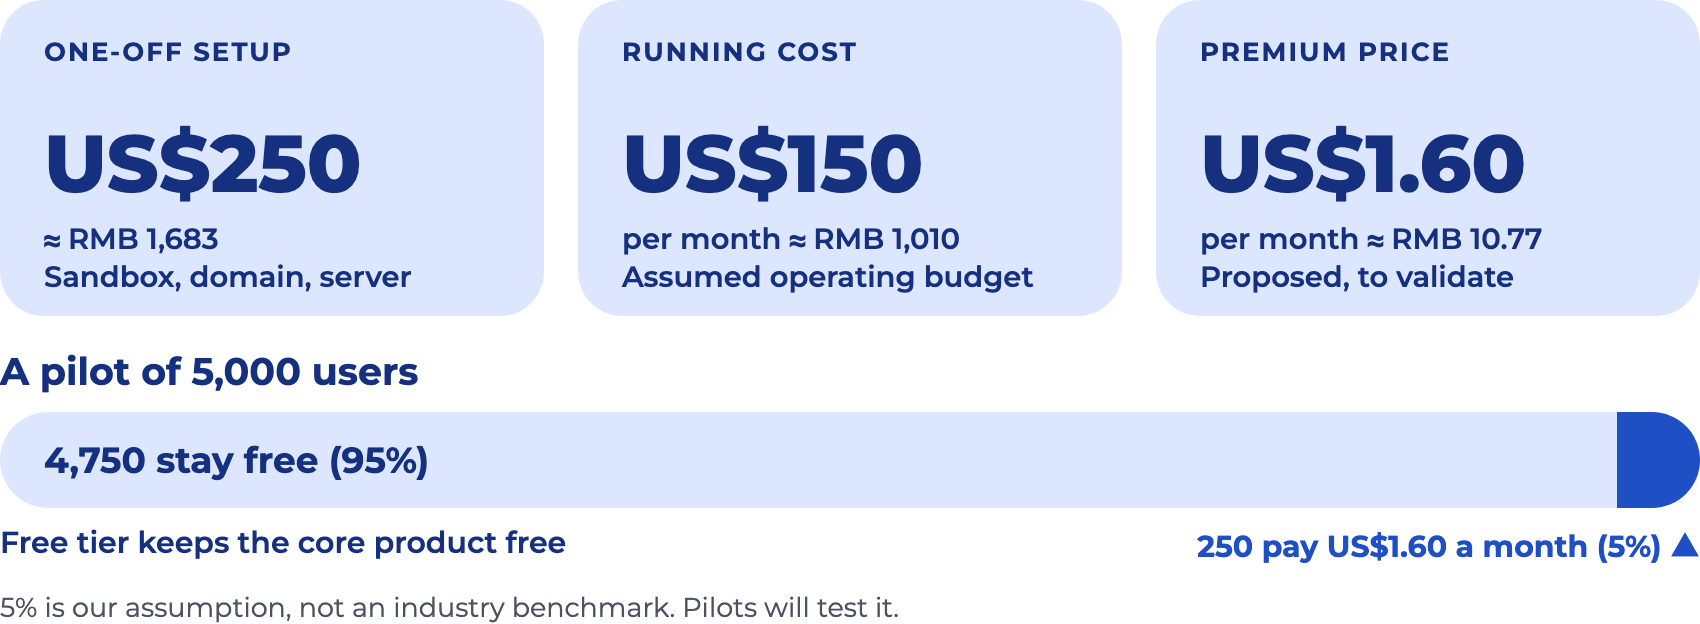
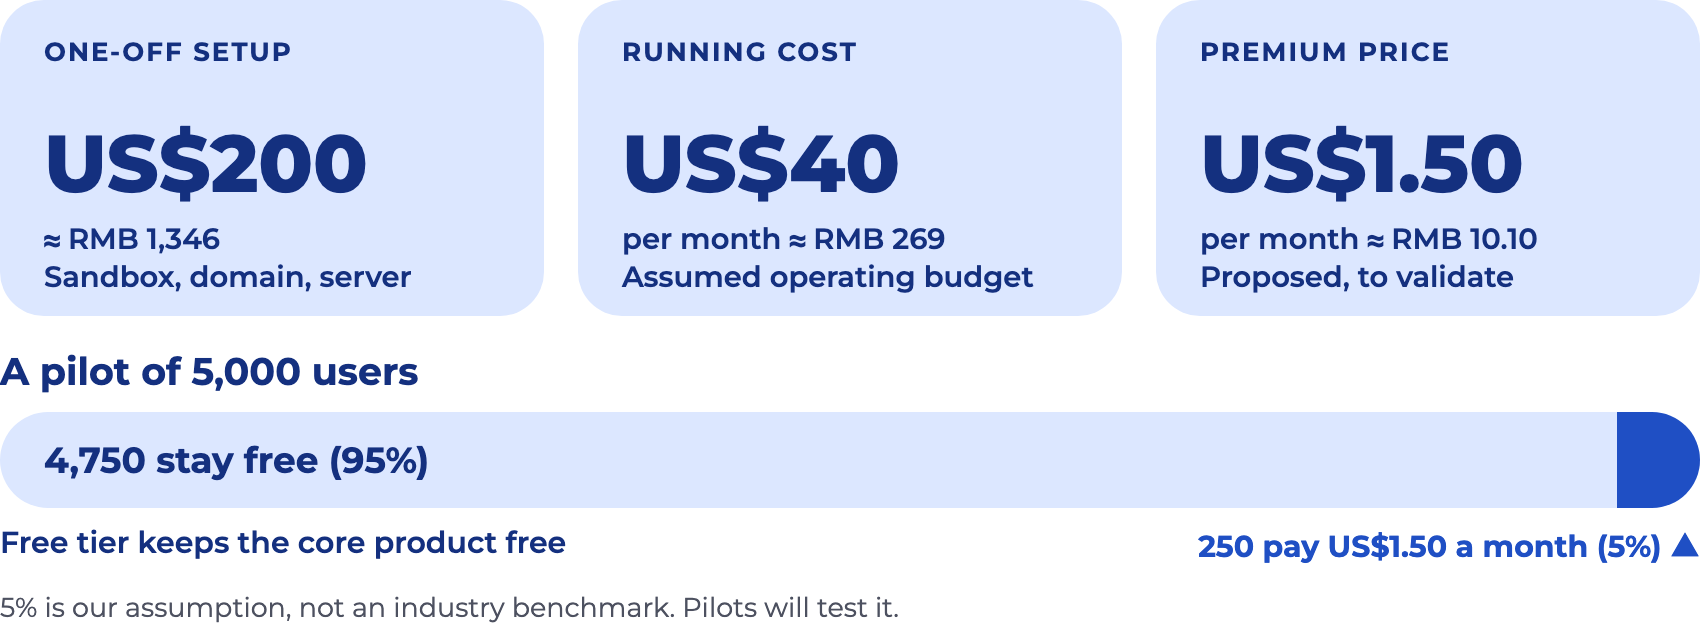
docs(deck): update pricing to US$1.50 and costs, tidy slide 16 sources

diff --git a/deck/src/ability.html b/deck/src/ability.html
@@ -9,10 +9,10 @@ h3{position:absolute;font-size:17px;font-weight:700;color:#14307f}
 </style></head><body><div class="card"></div>
 <h3 style="left:26px;top:16px">They already pay digitally: e-wallet use</h3><div class="rg" style="left:22px"><svg width="92" height="92" viewBox="0 0 92 92"><circle cx="46" cy="46" r="34" fill="none" stroke="#eef3ff" stroke-width="11"/><circle cx="46" cy="46" r="34" fill="none" stroke="#3171FD" stroke-width="11" stroke-linecap="round" stroke-dasharray="158.1 213.6" transform="rotate(-90 46 46)"/></svg><div class="p">74%</div><span class="fl">🇮🇩</span></div><div class="rg" style="left:120px"><svg width="92" height="92" viewBox="0 0 92 92"><circle cx="46" cy="46" r="34" fill="none" stroke="#eef3ff" stroke-width="11"/><circle cx="46" cy="46" r="34" fill="none" stroke="#3171FD" stroke-width="11" stroke-linecap="round" stroke-dasharray="115.4 213.6" transform="rotate(-90 46 46)"/></svg><div class="p">54%</div><span class="fl">🇲🇾</span></div><div class="rg" style="left:218px"><svg width="92" height="92" viewBox="0 0 92 92"><circle cx="46" cy="46" r="34" fill="none" stroke="#eef3ff" stroke-width="11"/><circle cx="46" cy="46" r="34" fill="none" stroke="#3171FD" stroke-width="11" stroke-linecap="round" stroke-dasharray="91.9 213.6" transform="rotate(-90 46 46)"/></svg><div class="p">43%</div><span class="fl">🇸🇬</span></div><div class="rg" style="left:316px"><svg width="92" height="92" viewBox="0 0 92 92"><circle cx="46" cy="46" r="34" fill="none" stroke="#eef3ff" stroke-width="11"/><circle cx="46" cy="46" r="34" fill="none" stroke="#3171FD" stroke-width="11" stroke-linecap="round" stroke-dasharray="130.3 213.6" transform="rotate(-90 46 46)"/></svg><div class="p">61%</div><span class="fl">🇹🇭</span></div><div class="rg" style="left:414px"><svg width="92" height="92" viewBox="0 0 92 92"><circle cx="46" cy="46" r="34" fill="none" stroke="#eef3ff" stroke-width="11"/><circle cx="46" cy="46" r="34" fill="none" stroke="#3171FD" stroke-width="11" stroke-linecap="round" stroke-dasharray="132.4 213.6" transform="rotate(-90 46 46)"/></svg><div class="p">62%</div><span class="fl">🇻🇳</span></div><div class="vl"></div><h3 style="left:552px;top:16px">And they pay for apps: monthly price</h3>
 <div class="nl"></div>
-<div style="position:absolute;left:552px;top:105px;width:136px;height:6px;background:#1f4fc4;border-radius:3px"></div>
-<div style="position:absolute;left:680px;top:99px;width:16px;height:16px;border-radius:50%;background:#1f4fc4;border:3px solid #fff;box-shadow:0 1px 4px rgba(0,0,0,.3)"></div>
+<div style="position:absolute;left:552px;top:105px;width:113px;height:6px;background:#1f4fc4;border-radius:3px"></div>
+<div style="position:absolute;left:657px;top:99px;width:16px;height:16px;border-radius:50%;background:#1f4fc4;border:3px solid #fff;box-shadow:0 1px 4px rgba(0,0,0,.3)"></div>
 <div style="position:absolute;left:827px;top:99px;width:16px;height:16px;border-radius:50%;background:#8fb0ff;border:3px solid #fff;box-shadow:0 1px 4px rgba(0,0,0,.3)"></div>
-<div style="position:absolute;left:552px;top:56px;width:260px;font-size:13px;font-weight:700;color:#1f4fc4;line-height:1.25">Monara Premium (proposed)<br>US$1.60 (≈ RMB 10.77)</div>
-<div style="position:absolute;right:30px;top:126px;text-align:right;font-size:13px;font-weight:700;color:#14307f;line-height:1.25">Typical IN/SEA app<br>US$3.75 (≈ RMB 25.24)</div>
+<div style="position:absolute;left:552px;top:56px;width:260px;font-size:13px;font-weight:700;color:#1f4fc4;line-height:1.25">Monara Premium (proposed)<br>US$1.50 (≈ RMB 10.10)</div>
+<div style="position:absolute;right:30px;top:126px;text-align:right;font-size:13px;font-weight:700;color:#14307f;line-height:1.25">Median app subscription<br>US$3.75 (≈ RMB 25.24)</div>
 <div class="chip" style="top:170px;left:552px;font-size:12px">WTP for Monara: to validate in pilots</div>
 </body></html>

diff --git a/deck/src/s16-outlook.html b/deck/src/s16-outlook.html
@@ -9,12 +9,12 @@
 <text x="465" y="430" font-size="18" font-weight="700" fill="#14307f" text-anchor="middle">Premium users</text>
 <text x="26" y="234" font-size="17" font-weight="700" fill="#14307f" text-anchor="middle" transform="rotate(-90 26 234)">US$ per month</text>
 <text x="914" y="234" font-size="16" font-weight="700" fill="#3d5a9e" text-anchor="middle" transform="rotate(90 914 234)">RMB per month (≈)</text>
-<line x1="110" y1="307.3" x2="820" y2="307.3" stroke="#14307f" stroke-width="4" stroke-dasharray="12 9"/>
-<line x1="110" y1="372" x2="820" y2="96" stroke="#3171FD" stroke-width="6" stroke-linecap="round"/>
-<circle cx="276.4" cy="307.3" r="11" fill="#fff" stroke="#1f4fc4" stroke-width="5"/>
-<text x="296" y="346" font-size="18" font-weight="700" fill="#14307f">Break-even: about 94 Premium users</text>
-<circle cx="552.9" cy="199.5" r="11" fill="#3171FD" stroke="#fff" stroke-width="4"/>
-<text x="534" y="168" font-size="18" font-weight="700" fill="#14307f" text-anchor="end">Pilot: 250 users = US$400 (≈ RMB 2,693) a month</text>
-<g font-size="16" fill="#14307f" font-weight="600"><rect x="112" y="24" width="26" height="6" rx="3" fill="#3171FD"/><text x="148" y="32">Monthly revenue at US$1.60 per Premium user</text>
-<line x1="112" y1="52" x2="138" y2="52" stroke="#14307f" stroke-width="4" stroke-dasharray="7 5"/><text x="148" y="58">Assumed operating budget, US$150 a month</text></g>
+<line x1="110" y1="354.8" x2="820" y2="354.8" stroke="#14307f" stroke-width="4" stroke-dasharray="12 9"/>
+<line x1="110" y1="372" x2="820" y2="113.3" stroke="#3171FD" stroke-width="6" stroke-linecap="round"/>
+<circle cx="157.3" cy="354.8" r="11" fill="#fff" stroke="#1f4fc4" stroke-width="5"/>
+<path d="M172 349 L318 334" stroke="#14307f" stroke-width="2" fill="none"/><text x="326" y="338" font-size="18" font-weight="700" fill="#14307f">Break-even: about 27 Premium users</text>
+<circle cx="552.9" cy="210.3" r="11" fill="#3171FD" stroke="#fff" stroke-width="4"/>
+<text x="534" y="178" font-size="18" font-weight="700" fill="#14307f" text-anchor="end">Pilot: 250 users = US$375 (≈ RMB 2,524) a month</text>
+<g font-size="16" fill="#14307f" font-weight="600"><rect x="112" y="24" width="26" height="6" rx="3" fill="#3171FD"/><text x="148" y="32">Monthly revenue at US$1.50 per Premium user</text>
+<line x1="112" y1="52" x2="138" y2="52" stroke="#14307f" stroke-width="4" stroke-dasharray="7 5"/><text x="148" y="58">Assumed operating budget, US$40 a month</text></g>
 </svg></body></html>

diff --git a/deck/src/competitor.html b/deck/src/competitor.html
@@ -24,7 +24,7 @@ html,body{width:1792px;height:584px;background:transparent;font-family:'Poppins'
 <div class="c l tl">Market</div><div class="c">Indonesia</div><div class="c">Indonesia</div><div class="c">Indonesia</div><div class="c">Global</div><div class="c m">Indonesia, then SEA</div>
 <div class="c l">Chat channel</div><div class="c">WhatsApp</div><div class="c">Voice, receipts, web app</div><div class="c">WhatsApp</div><div class="c">WhatsApp, Telegram</div><div class="c m">WhatsApp first; LINE, Messenger, Zalo next</div>
 <div class="c l">Gmail import</div><div class="c">Yes</div><div class="c">Yes</div><div class="c">Not verified</div><div class="c">Yes</div><div class="c m">Yes, as Pending</div>
-<div class="c l last bl">Where Monara differs</div><div class="c last">Every imported item stays Pending until you confirm</div><div class="c last">Permission tiers: deletes always ask first</div><div class="c last">Gmail receipts become Pending items, so typing is optional</div><div class="c last"><div>Built for SEA: proposed Premium US$1.60/mo <span class="s">(≈ RMB 10.77)</span> vs US$6.67 <span class="s">(≈ RMB 44.90)</span></div></div><div class="c m last br">A trusted Agent: source on every item, no invented amounts</div>
+<div class="c l last bl">Where Monara differs</div><div class="c last">Every imported item stays Pending until you confirm</div><div class="c last">Permission tiers: deletes always ask first</div><div class="c last">Gmail receipts become Pending items, so typing is optional</div><div class="c last"><div>Built for SEA: proposed Premium US$1.50/mo <span class="s">(≈ RMB 10.10)</span> vs US$6.67 <span class="s">(≈ RMB 44.90)</span></div></div><div class="c m last br">A trusted Agent: source on every item, no invented amounts</div>
 </div>
 <div class="strip"><div class="lb">Payment networks move money.<br>Monara helps you understand it.</div><div class="chip">Alipay+</div><div class="chip">WeChat Pay</div><div class="chip">GCash</div><div class="chip">DANA</div><div class="note">Ecosystems Monara sits on top of, not competitors</div></div>
 </body></html>

diff --git a/deck/src/s16-c1.html b/deck/src/s16-c1.html
@@ -9,11 +9,11 @@
 .l1{position:absolute;left:0;top:262px;font-size:15px;font-weight:600;color:var(--navy)}.l2{position:absolute;right:0;top:262px;font-size:15px;font-weight:700;color:var(--brand-dark)}
 .note{position:absolute;left:0;bottom:0;font-size:13.5px;color:var(--muted)}
 </style></head><body>
-<div class="blk" style="left:0"><div class="k">ONE-OFF SETUP</div><div class="n">US$250</div><div class="s">≈ RMB 1,683<br>Sandbox, domain, server</div></div>
-<div class="blk" style="left:289px"><div class="k">RUNNING COST</div><div class="n">US$150</div><div class="s">per month ≈ RMB 1,010<br>Assumed operating budget</div></div>
-<div class="blk" style="left:578px"><div class="k">PREMIUM PRICE</div><div class="n">US$1.60</div><div class="s">per month ≈ RMB 10.77<br>Proposed, to validate</div></div>
+<div class="blk" style="left:0"><div class="k">ONE-OFF SETUP</div><div class="n">US$200</div><div class="s">≈ RMB 1,346<br>Sandbox, domain, server</div></div>
+<div class="blk" style="left:289px"><div class="k">RUNNING COST</div><div class="n">US$40</div><div class="s">per month ≈ RMB 269<br>Assumed operating budget</div></div>
+<div class="blk" style="left:578px"><div class="k">PREMIUM PRICE</div><div class="n">US$1.50</div><div class="s">per month ≈ RMB 10.10<br>Proposed, to validate</div></div>
 <div class="hd">A pilot of 5,000 users</div>
 <div class="sp"><div class="f">4,750 stay free (95%)</div><div class="p"></div></div>
-<div class="l1">Free tier keeps the core product free</div><div class="l2">250 pay US$1.60 a month (5%) ▲</div>
+<div class="l1">Free tier keeps the core product free</div><div class="l2">250 pay US$1.50 a month (5%) ▲</div>
 <div class="note">5% is our assumption, not an industry benchmark. Pilots will test it.</div>
 </body></html>

diff --git a/deck/src/s16-kpis.html b/deck/src/s16-kpis.html
@@ -10,8 +10,8 @@
 .r{font-size:16px;font-weight:700;color:var(--brand-dark);margin-top:8px}.hot .r{color:var(--pale)}
 .s{font-size:14px;font-weight:600;color:var(--navy);margin-top:6px;line-height:1.3}.hot .s{color:var(--pale)}
 </style></head><body><div class="row">
-<div class="t"><div class="k">Monthly revenue</div><div class="n">US$400</div><div class="r">≈ RMB 2,693</div><div class="s">250 Premium users</div></div>
-<div class="t"><div class="k">Annualized revenue</div><div class="n">US$4,800</div><div class="r">≈ RMB 32,310</div><div class="s">12 x US$400 monthly</div></div>
-<div class="t"><div class="k">Monthly surplus</div><div class="n">US$250</div><div class="r">≈ RMB 1,683</div><div class="s">Revenue minus the US$150 budget</div></div>
-<div class="t hot"><div class="k">Break-even</div><div class="n">94</div><div class="r">Premium users</div><div class="s">US$150 ÷ US$1.60 a month</div></div>
+<div class="t"><div class="k">Monthly revenue</div><div class="n">US$375</div><div class="r">≈ RMB 2,524</div><div class="s">250 Premium users</div></div>
+<div class="t"><div class="k">Annualized revenue</div><div class="n">US$4,500</div><div class="r">≈ RMB 30,291</div><div class="s">12 x US$375 monthly</div></div>
+<div class="t"><div class="k">Monthly surplus</div><div class="n">US$335</div><div class="r">≈ RMB 2,255</div><div class="s">Revenue minus the US$40 budget</div></div>
+<div class="t hot"><div class="k">Break-even</div><div class="n">27</div><div class="r">Premium users</div><div class="s">US$40 ÷ US$1.50 a month</div></div>
 </div></body></html>

diff --git a/deck/src/s16-pricing.html b/deck/src/s16-pricing.html
@@ -11,7 +11,7 @@
 </style></head><body><div class="card"></div><div id="root"></div>
 <script>
 // [label, flag, usd, kind]  kind: hl = Monara, bm = benchmark (hatched bar)
-const rows=[["Monara Premium","",1.60,"hl"],["Rekafin Personal","🇮🇩",29000/17899,""],["Money Lover","🇻🇳",2.49,""],["Median app subscription*","",3.75,"bm"],["Oyenza Pro","🇮🇩",99000/17899,""],["Spendee Premium","🌐",5.99,""],["Moneko Plus","🌐",6.67,""]];
+const rows=[["Monara Premium","",1.50,"hl"],["Rekafin Personal","🇮🇩",29000/17899,""],["Money Lover","🇻🇳",2.49,""],["Median app subscription*","",3.75,"bm"],["Oyenza Pro","🇮🇩",99000/17899,""],["Spendee Premium","🌐",5.99,""],["Moneko Plus","🌐",6.67,""]];
 const FX=6.7313,MAX=8,W=420;let h='';
 rows.forEach((r,i)=>{const w=Math.max(r[2]/MAX*W,8);
  h+=`<div class="r ${r[3]}" style="top:${14+i*30}px"><div class="lb">${r[1]?`<span class="fl">${r[1]}</span>`:''}${r[0]}</div><div class="bar" style="width:${w}px"></div><div class="v">US$${r[2].toFixed(2)}<i>≈ RMB ${(r[2]*FX).toFixed(2)}</i></div></div>`});

diff --git a/deck/README.md b/deck/README.md
@@ -27,7 +27,7 @@ The script needs Google Chrome (set `CHROME` to override the path) and network a
 | `tiers` | 13 Permission tiers |
 | `competitor` | 14 Competitors |
 | `waves` | 15 Market (expansion waves) |
-| `capital`, `revenue`, `chart` | 16 Business model |
+| `s16-pricing`, `s16-c1`, `s16-outlook`, `s16-kpis`, `s16-bar-l`, `s16-bar-r` | 16 Business model |
 | `gap` | 3 Research chart |
 | `attack` | 18 Safety under attack |
 | `risk` | 19 Privacy and operations risks |
